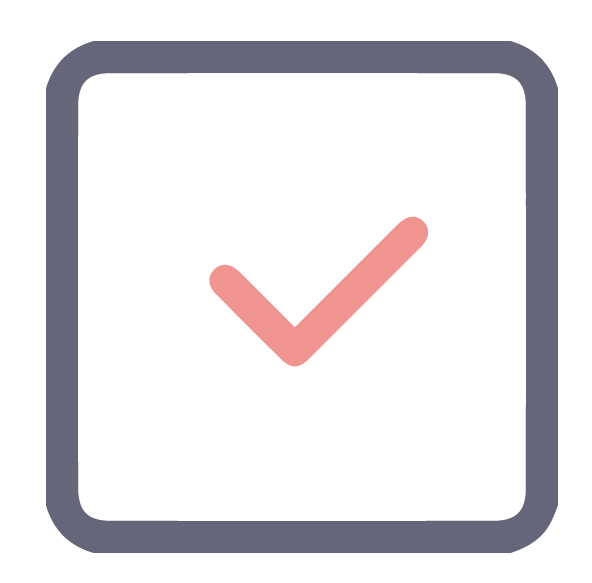
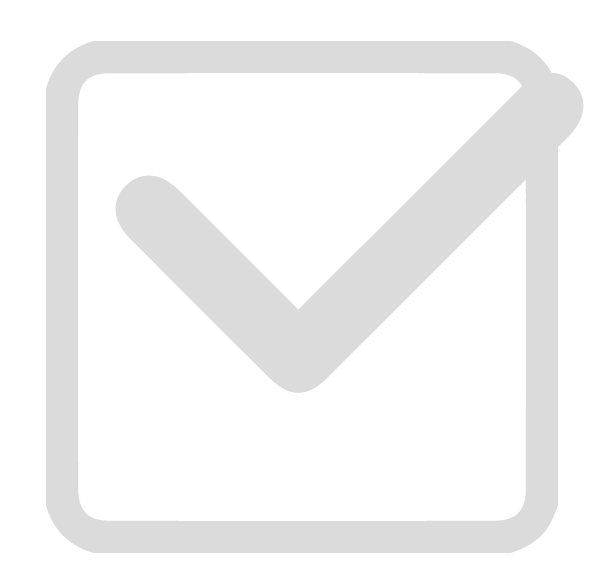
edit: incenseSlider

Changed region(s): [[0.0608, 0.0617, 1.0, 0.9571]]

diff --git a/client/src/pages/Incense.js b/client/src/pages/Incense.js
@@ -1,4 +1,4 @@
-import { useState, useRef } from 'react';
+import { useState, useEffect, useRef } from 'react';
 import styled from 'styled-components';
 import IncenseSlider from '../components/incense_components/IncenseSlider';
 
@@ -25,13 +25,36 @@ const Wrapper = styled.div`
   }
 `;
 
+const Cloud = styled.div`
+  overflow: hidden;
+  width: 8000px;
+  height: 100%;
+  background-image: url('/images/cloud3.png');
+  background-size: 6000px;
+  position: fixed;
+  right: 20px;
+  top: 0;
+  bottom: 0;
+  z-index: 1;
+  animation: incense 300s linear infinite;
+  @keyframes incense {
+    from {
+      -webkit-transform: translate3d(0px, 0px, 0px);
+    }
+    to {
+      -webkit-transform: translate3d(6000px, 0px, 0px);
+    }
+  }
+`;
+
 const IncenseContainer = styled.div`
   height: 260px;
   z-index: 3;
 `;
 
 const IncenseContent = styled.div`
-  background-color: rgba(255, 255, 255, 0.8);
+  background-color: rgba(255, 255, 255, 0.1);
+  backdrop-filter: blur(10px);
   box-shadow: rgba(0, 0, 0, 0.25) 0px 54px 55px,
     rgba(0, 0, 0, 0.12) 0px -12px 30px, rgba(0, 0, 0, 0.12) 0px 4px 6px,
     rgba(0, 0, 0, 0.17) 0px 12px 13px, rgba(0, 0, 0, 0.09) 0px -3px 5px;
@@ -81,7 +104,7 @@ const SliderBtnRight = styled.div`
 
 const CartBtn = styled.div`
   padding: 20px;
-  background-color: ${(props) => (props.count === 1 ? '#f09490' : 'white')};
+  background-color: ${(props) => (props.count === 1 ? '#b7c58b' : 'white')};
   opacity: 0.6;
   display: flex;
   justify-content: center;
@@ -96,18 +119,22 @@ const CartBtn = styled.div`
 `;
 
 const Sequence = styled.div`
-  color: #66667a;
+  color: #dbdbdb;
   display: flex;
   justify-content: end;
   position: relative;
-  right: 14px;
-  top: 2px;
+  right: 35px;
+  top: 23px;
+  @media screen and (max-width: 768px) {
+    right: 45px;
+  }
 `;
 
 const TOTAL_SLIDES = 2;
 const Incense = () => {
   const [currentSlide, setCurrentSlide] = useState(0);
   const [clickCount, setClickCount] = useState(0);
+  const [addToCart, setAddToCart] = useState(false);
   const [click, setClick] = useState({
     one: false,
     two: false,
@@ -120,21 +147,42 @@ const Incense = () => {
       title: 'Sad Romance Incense',
       url: '/images/product.png',
       stickName: '세이지',
-      stickPrice: 2000
+      stickPrice: 2000,
+      stickScope: {
+        citrus: 2,
+        green: 10,
+        fruity: 5,
+        fresh: 7,
+        floral: 5
+      }
     },
     {
       id: 'two',
       title: 'Lorem ipsum Incense',
       url: '/images/product.png',
       stickName: '오크모스',
-      stickPrice: 2000
+      stickPrice: 2000,
+      stickScope: {
+        citrus: 4,
+        green: 6,
+        fruity: 7,
+        fresh: 5,
+        floral: 5
+      }
     },
     {
       id: 'three',
       title: 'On the beach Insence',
       url: '/images/product.png',
       stickName: '새벽',
-      stickPrice: 2000
+      stickPrice: 2000,
+      stickScope: {
+        citrus: 3,
+        green: 10,
+        fruity: 6,
+        fresh: 5,
+        floral: 3
+      }
     }
   ];
   const nextSlide = () => {
@@ -151,6 +199,11 @@ const Incense = () => {
       setCurrentSlide(currentSlide - 1);
     }
   };
+
+  useEffect(() => {
+    slideRef.current.style.transition = 'all 0.5s ease-in-out';
+    slideRef.current.style.transform = `translateX(-${currentSlide}00%)`;
+  }, [currentSlide]);
 
   const clickHandler = (id) => {
     // * id를 얻어서 cart add btn 누를때 사용
@@ -180,6 +233,7 @@ const Incense = () => {
         <SliderBtnRight onClick={nextSlide} />
         <CartBtn count={clickCount}>Add to cart</CartBtn>
       </IncenseContainer>
+      <Cloud />
     </Wrapper>
   );
 };

diff --git a/client/src/components/incense_components/IncenseSlider.js b/client/src/components/incense_components/IncenseSlider.js
@@ -1,3 +1,4 @@
+import { useState, useEffect } from 'react';
 import styled from 'styled-components';
 
 const SliderContainer = styled.div`
@@ -15,17 +16,18 @@ const CheckImg = styled.div`
   width: 30px;
   height: 30px;
   position: relative;
-  left: 140px;
-  bottom: 180px;
+  left: 238px;
+  bottom: 280px;
   @media screen and (max-width: 768px) {
-    left: 80px;
-    bottom: 180px;
+    left: 128px;
+    bottom: 280px;
   }
 `;
 
 const Img = styled.div`
-  flex: 70%;
+  flex: 1;
   flex-shrink: 0;
+  //background-color: #b7c58b;
   background-image: url(${(props) => props.img});
   background-size: contain;
   background-repeat: no-repeat;
@@ -33,29 +35,55 @@ const Img = styled.div`
 `;
 
 const TextContainer = styled.div`
-  flex: 30%;
+  flex: 1;
   flex-shrink: 0;
+  padding-top: 50px;
   display: flex;
   flex-direction: column;
   justify-content: center;
 `;
 
 const Text = styled.div`
-  color: #66667a;
+  color: #dbdbdb;
+  text-align: center;
+  line-height: 30px;
 `;
 
 const IncenseSlider = ({
   data,
   clickHandler,
-  clickCount,
   setClickCount,
   click,
   setClick
 }) => {
-  //* clickHandler -> id넘겨주면 활용해서 장바구니
-  //* clickCount -> 0과 1로 상품을 클릭했는지 구분
-  //* setClickCount -> set
-  //* setClick -> data false
+  const [scope] = useState(data.stickScope);
+  const [num, setNum] = useState(null);
+  const RATE = [1, 2, 3, 4, 5];
+  const SCOPE_DATA = ['citrus', 'green', 'fruity', 'fresh', 'floral'];
+  useEffect(() => {
+    const dividedNum = SCOPE_DATA.map((item) => {
+      const a = scope[item] / 2;
+      return a;
+    });
+    setNum(dividedNum);
+  }, [data]);
+  const changeToStr = (score) => {
+    let circles = [];
+    let isHalf = score % 1 === 0 ? false : true;
+    const parsedNum = Math.ceil(score);
+    RATE.forEach((el) => {
+      if (parsedNum >= el) {
+        if (el === parsedNum && isHalf) {
+          circles.push('◐');
+        } else {
+          circles.push('●');
+        }
+      } else {
+        circles.push('○');
+      }
+    });
+    return circles.join('');
+  };
 
   const sliderClickHandler = (id) => {
     const data = {
@@ -72,6 +100,7 @@ const IncenseSlider = ({
       clickHandler(id);
     }
   };
+
   return (
     <SliderContainer onClick={() => sliderClickHandler(data.id)}>
       <Img img={data.url} />
@@ -79,7 +108,14 @@ const IncenseSlider = ({
         <Text>{data.stickName}</Text>
         <Text>{data.title}</Text>
         <Text>{data.stickPrice} KRW</Text>
-        <CheckImg click={click[data.id] && '/images/check2.png'} />
+        {SCOPE_DATA.map((el, idx) => {
+          return (
+            <Text key={el}>
+              {el}: {num && changeToStr(num[idx])}
+            </Text>
+          );
+        })}
+        <CheckImg click={click[data.id] && '/images/check.png'} />
       </TextContainer>
     </SliderContainer>
   );
